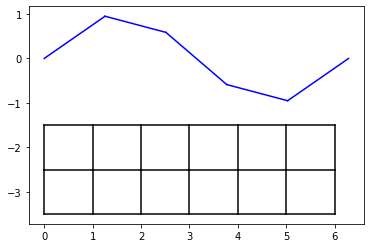
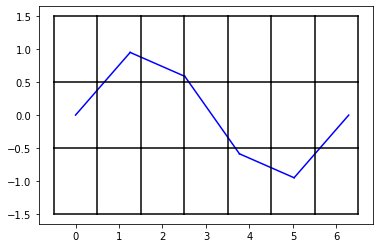
deploy: 42b4f965e19e7f2727c2987ec992e556f2c6b85d

diff --git a/searchindex.js b/searchindex.js
@@ -1,1 +1,1 @@
-Search.setIndex({docnames:["api/errors","api/factories","api/index","api/meshkernel","api/py_structures","examples/01_mesh2d_basics","examples/02_mesh1d_basics","examples/index","index"],envversion:{"sphinx.domains.c":2,"sphinx.domains.changeset":1,"sphinx.domains.citation":1,"sphinx.domains.cpp":3,"sphinx.domains.index":1,"sphinx.domains.javascript":2,"sphinx.domains.math":2,"sphinx.domains.python":2,"sphinx.domains.rst":2,"sphinx.domains.std":2,sphinx:56},filenames:["api/errors.rst","api/factories.rst","api/index.rst","api/meshkernel.rst","api/py_structures.rst","examples/01_mesh2d_basics.ipynb","examples/02_mesh1d_basics.ipynb","examples/index.rst","index.md"],objects:{},objnames:{},objtypes:{},terms:{"0d0":4,"1d0":4,"975":4,"998":4,"999":4,"boolean":3,"case":[3,5],"class":[0,1,3,4,5],"default":[1,4],"float":[1,3,4],"function":3,"import":[5,6],"int":[1,3,4,5],"new":[3,5],"public":2,"return":[1,3,4,5],"static":1,"true":[3,5],Axes:4,For:[3,5],That:5,The:[1,3,4,5,8],These:[0,1,2,4,7],With:5,absolut:4,access:5,account:[3,4],account_for_samples_outsid:4,account_for_samples_outside_fac:4,achiev:[3,8],adapt:8,add:5,after:5,again:5,against:3,algorithm:[3,8],all:[3,4,5],all_face_circumcent:4,all_nod:4,also:[5,8],alwai:5,amount:3,angl:3,ani:[3,5],annot:5,anoth:3,api:8,area:[3,4,8],areal_to_angle_smoothing_factor:4,arg:4,arrai:[3,4,5],ask:5,assert:5,atpf:4,attribut:5,averag:[3,4],averaging_method:3,averagingmethod:[3,4],axes:4,back:5,balanc:8,base:[3,8],basic:7,befor:8,begin:[5,6],below:[3,5],between:[1,3,4,5,8],black:[6,8],blue:[5,6],bool:[3,4],boundari:[3,4],boundary_iter:4,bundl:8,calcul:[1,3,5],can:[5,6,7,8],cartesian:5,cell:[3,4],center:[3,4,5],cento:8,chang:5,circum:4,circumcent:3,close:3,closest:[3,4],closest_point:4,code:8,collect:5,color:[5,6],column:1,come:0,common:5,complet:4,complex:4,compos:4,comput:[3,4],configur:[3,8],connect:[3,4,5],connect_hanging_nod:4,constructor:5,contact:[3,4],contacts_compute_boundari:3,contacts_compute_multipl:3,contacts_compute_singl:3,contacts_compute_with_point:3,contacts_compute_with_polygon:3,contacts_get:3,contain:3,conveni:5,coordin:[1,3,4,5],copi:3,corner:3,correspond:5,count:5,creat:[1,5,8],create_rectilinear_mesh:[1,5,6],criterion:4,current:8,data:[3,4,5],deal:[5,6],defin:3,delet:[3,4,5],delete_opt:3,deletemeshopt:[3,4],deltar:8,depend:8,describ:[1,3,4,5],desir:8,detect:3,determin:3,dimension:[3,4,5],discret:8,distanc:3,doc:8,document:5,doubl:[3,4,5],download:7,draw:5,dtype:4,each:[3,4,5],edg:[3,4,5,8],edge_i:[4,5],edge_index:6,edge_index_0:5,edge_index_1:5,edge_index_3:5,edge_nod:[4,5,6],edge_x:[4,5],edit:8,editor:8,effect:3,embed:7,enclos:3,end:4,end_nod:3,enough:5,entri:3,enumer:5,environ:8,equal:3,error:2,everyth:5,exampl:3,except:0,execut:[5,8],express:3,face:[3,4,5],face_i:[4,5],face_index:5,face_nod:4,face_x:[4,5],factor:4,factori:2,fals:[3,5],few:5,fig:[5,6],find:[3,5],finit:8,first:[3,5],first_nod:3,fit:8,flip:3,float64:4,flow:[3,8],focus:5,follow:8,fontsiz:5,format:8,formatt:8,found:[5,8],from:[0,3,4,5,6,7,8],fulli:5,futur:8,garbag:5,gener:3,geometri:[3,4],geometry_list:3,geometry_separ:4,geometrylist:[3,4],get:[3,4,5],get_splin:3,getter:5,given:[3,4],good:8,got:5,grid:4,hang:[3,4,5],hanging_edg:5,has:[3,5],have:[3,5,6],henc:3,here:[7,8],highli:3,hold:[4,5],hole:3,homogen:4,how:[3,4,6],howev:8,immedi:5,increas:4,index:[3,5],indic:[3,4,5],inner:[3,4],inner_iter:4,inner_outer_separ:4,input:[0,3],inputerror:[0,3],insert:3,insid:[3,4,8],instanc:[1,5],int32:[4,6],integ:[3,4],interact:[3,5,6],intern:3,interpol:[3,4],intersect:4,interv:3,introduct:5,invers:4,inverse_weight_dist:4,invert:3,invert_delet:3,involv:3,is_geograph:[3,5],isort:8,itatp:4,itbnd:4,iter:4,its:[4,5],jupyt:[7,8],jupyterlab:8,kind:5,kwarg:4,land:[3,4],land_boundari:3,larger:3,length:[3,8],let:5,lgpl:8,librari:[0,3,5,6,8],line:8,linspac:6,lint:8,list:[3,4],local:8,locat:[3,4],location_typ:3,look:5,machin:[7,8],make:[2,3,5,8],mandatori:5,manipul:5,manylinux:8,mass:[3,4],matplotlib:[4,5,6],max:4,max_refinement_iter:4,maximum:4,mean:[3,4],merg:3,merging_dist:3,mesh1d:[3,4,7],mesh1d_get:3,mesh1d_indic:4,mesh1d_input:6,mesh1d_set:[3,6],mesh2d:[1,3,4,7],mesh2d_averaging_interpol:3,mesh2d_compute_orthogon:3,mesh2d_delet:3,mesh2d_delete_edg:3,mesh2d_delete_hanging_edg:[3,5],mesh2d_delete_nod:[3,5],mesh2d_delete_small_flow_edges_and_small_triangl:3,mesh2d_flip_edg:3,mesh2d_get:[3,5],mesh2d_get_edg:3,mesh2d_get_hanging_edg:[3,5],mesh2d_get_mesh_boundaries_as_polygon:3,mesh2d_get_node_index:3,mesh2d_get_nodes_in_polygon:3,mesh2d_get_obtuse_triangles_mass_cent:3,mesh2d_get_orthogon:3,mesh2d_get_small_flow_edge_cent:3,mesh2d_get_smooth:3,mesh2d_indic:4,mesh2d_input:[5,6],mesh2d_insert_edg:[3,5],mesh2d_insert_nod:[3,5],mesh2d_make_mesh_from_polygon:3,mesh2d_make_mesh_from_sampl:3,mesh2d_merge_nod:3,mesh2d_merge_two_nod:3,mesh2d_move_nod:3,mesh2d_output_0:5,mesh2d_output_1:5,mesh2d_output_2:5,mesh2d_output_3:5,mesh2d_refine_based_on_polygon:3,mesh2d_refine_based_on_sampl:3,mesh2d_set:[3,5,6],mesh2d_triangulation_interpol:3,mesh2dfactori:[1,5,6],mesh2dloc:[3,4],mesh:[1,3,4,5,6,8],mesh_refinement_param:3,meshkernel:[0,1,2,4,5,6,8],meshkernelerror:0,meshkernelpi:0,meshrefinementparamet:[3,4],method:[3,4,5],middl:[3,4,5],might:0,min:4,min_face_s:4,min_fractional_area_triangl:3,min_sampl:3,minimum:[3,4],minimum_num_sampl:3,miss:3,mit:8,modifi:[3,8],more:3,most:5,move:3,much:8,multipl:3,myst:7,ndarrai:[3,4],necessari:[5,6],need:8,neighbor:3,net:4,network:3,node:[3,4,5],node_i:[4,5,6],node_index:[3,6],node_index_0:5,node_index_1:5,node_mask:3,node_x:[4,5,6],nodes_per_fac:4,non:3,none:3,note:3,notebook:[7,8],now:5,number:[1,3,4,5],number_of_points_between_nod:3,numpi:[3,4,5,6],object:[0,1,2],obtus:3,offer:8,often:5,onc:5,one:[3,4,5],onli:[3,5,8],oper:[3,5],optim:3,option:[1,3,4],order:[5,8],origin:[1,5],origin_i:[1,6],origin_x:1,orthogon:[3,4,8],orthogonalization_paramet:3,orthogonalization_to_smoothing_factor:4,orthogonalization_to_smoothing_factor_at_boundari:4,orthogonalizationparamet:[3,4],other:3,otherwis:5,our:5,outer:[3,4],outer_iter:4,output:[3,5],outsid:[3,4],own:[5,7],paramet:[1,2,3,5],part:4,per:3,perform:3,perimet:[3,8],pip:8,plai:7,plan:8,pleas:[3,8],plot:[4,5],plot_edg:[4,5,6],plot_fac:[4,5],plt:[5,6],point:[3,4,5],polygon:[3,4,8],polygon_get_included_point:3,polygon_refin:3,posit:[3,5],possibl:8,process:[3,4],produc:1,project:[3,4],project_to_land_boundary_opt:3,project_to_land_boundary_requir:3,projecttolandboundaryopt:[3,4],provid:[5,8],py_structur:[1,3,4],pypi:8,pyplot:[5,6],python:8,quadrilater:3,quit:5,radiu:3,rais:[0,3],rang:[5,6],ratio:3,rectilinear:1,refin:[3,4,8],refine_intersect:4,refinement_typ:4,refinementtyp:4,rel:3,relative_search_radiu:3,relative_search_s:3,releas:8,remain:5,remov:3,requir:[3,8],result:3,retriev:3,row:1,sampl:[3,4,8],sample_point:3,scale:5,search:[3,5],search_radiu:3,second:3,second_nod:3,see:5,seen:5,segment:3,select:[3,8],selected_polygon:3,selecting_polygon:3,separ:[3,4],seri:3,set:[3,4,5],setter:5,sever:3,shape:3,share:3,should:3,show:6,simpl:[1,5],simple_averag:4,sin:6,singl:3,six:[3,5],size:[3,4,5,6],small:3,small_flow_edges_length_threshold:3,smaller:3,smooth:[3,4,8],smoother:4,snap:3,solver:8,some:3,sourc:8,space:1,spacing_i:1,spacing_x:1,specif:8,specifi:3,spheric:5,spline:3,split:[3,4],stagger:8,start_nod:3,state:[3,5],strategi:3,structur:5,subplot:[5,6],success:3,support:8,sure:8,take:4,target:3,target_edge_length:3,test:8,text:5,than:3,thei:[5,6],them:[5,7],thi:[3,4,5,6,8],third:5,those:3,three:5,thrown:0,togeth:5,trade:3,triangl:3,triangul:3,triangular:[3,8],triangulation_requir:3,tutori:[5,6],two:[3,4,5],type:[1,3,4],typic:3,underli:8,uniform:3,unstructur:[5,8],until:5,unwant:5,use:[4,5],use_mass_center_when_refin:4,used:[1,3,4,5,8],uses:8,using:[3,5],valid:3,valu:[3,4],vari:3,variou:5,veri:[5,6],via:7,virtual:8,volum:8,want:7,weight:4,wheel:8,when:[3,4,8],where:[3,4],whether:[3,4,5],which:[2,3,4,5],white:5,why:5,wildli:3,within:[3,4],without:5,x_coordin:[3,4],y_coordin:[3,4],you:[5,7],your:[7,8],zero:6,zip:5},titles:["Errors","Factories","Python API","MeshKernel","Parameter Objects","Mesh2d Basics","Mesh1d basics","Examples","MeshKernelPy"],titleterms:{api:2,basic:[5,6],contribut:8,error:0,exampl:[7,8],factori:1,instal:8,licens:8,linux:8,mesh1d:6,mesh2d:5,meshkernel:3,meshkernelpi:8,object:4,paramet:4,python:2,window:8}})
+Search.setIndex({docnames:["api/errors","api/factories","api/index","api/meshkernel","api/py_structures","examples/01_mesh2d_basics","examples/02_mesh1d_basics","examples/index","index"],envversion:{"sphinx.domains.c":2,"sphinx.domains.changeset":1,"sphinx.domains.citation":1,"sphinx.domains.cpp":3,"sphinx.domains.index":1,"sphinx.domains.javascript":2,"sphinx.domains.math":2,"sphinx.domains.python":2,"sphinx.domains.rst":2,"sphinx.domains.std":2,sphinx:56},filenames:["api/errors.rst","api/factories.rst","api/index.rst","api/meshkernel.rst","api/py_structures.rst","examples/01_mesh2d_basics.ipynb","examples/02_mesh1d_basics.ipynb","examples/index.rst","index.md"],objects:{},objnames:{},objtypes:{},terms:{"0d0":4,"1d0":4,"975":4,"998":4,"999":4,"boolean":3,"case":[3,5],"class":[0,1,3,4,5],"default":[1,4],"float":[1,3,4],"function":3,"import":[5,6],"int":[1,3,4,5],"new":[3,5],"public":2,"return":[1,3,4,5],"static":1,"true":[3,5,6],Axes:4,For:[3,5],That:5,The:[1,3,4,5,8],These:[0,1,2,4,7],With:5,absolut:4,access:5,account:[3,4],account_for_samples_outsid:4,account_for_samples_outside_fac:4,achiev:[3,8],adapt:8,add:5,after:5,again:5,against:3,algorithm:[3,8],all:[3,4,5],all_face_circumcent:4,all_nod:4,also:[5,8],alwai:5,amount:3,angl:3,ani:[3,5],annot:5,anoth:3,api:8,area:[3,4,8],areal_to_angle_smoothing_factor:4,arg:4,arrai:[3,4,5],ask:5,assert:5,atpf:4,attribut:5,averag:[3,4],averaging_method:3,averagingmethod:[3,4],axes:4,back:5,balanc:8,base:[3,8],basic:7,befor:8,begin:[5,6],below:[3,5],between:[1,3,4,5,8],black:[6,8],blue:[5,6],bool:[3,4],boundari:[3,4],boundary_iter:4,bundl:8,calcul:[1,3,5],can:[5,6,7,8],cartesian:5,cell:[3,4],center:[3,4,5],cento:8,chang:5,circum:4,circumcent:3,close:3,closest:[3,4],closest_point:4,code:8,collect:5,color:[5,6],column:1,come:0,common:5,complet:4,complex:4,compos:4,comput:[3,4],configur:[3,8],connect:[3,4,5],connect_hanging_nod:4,constructor:5,contact:[3,4],contacts_compute_boundari:3,contacts_compute_multipl:[3,6],contacts_compute_singl:3,contacts_compute_with_point:3,contacts_compute_with_polygon:3,contacts_get:[3,6],contacts_output_0:6,contain:3,conveni:5,coordin:[1,3,4,5],copi:3,corner:3,correspond:5,count:5,creat:[1,5,8],create_rectilinear_mesh:[1,5,6],criterion:4,current:8,data:[3,4,5],deal:[5,6],defin:3,delet:[3,4,5],delete_opt:3,deletemeshopt:[3,4],deltar:8,depend:8,describ:[1,3,4,5],descript:4,desir:8,detect:3,determin:3,dimension:[3,4,5],discret:8,distanc:3,doc:8,document:5,doubl:[3,4,5],download:7,draw:5,dtype:4,each:[3,4,5],edg:[3,4,5,8],edge_i:[4,5],edge_index:6,edge_index_0:5,edge_index_1:5,edge_index_3:5,edge_nod:[4,5,6],edge_x:[4,5],edit:8,editor:8,effect:3,embed:7,enclos:3,end:4,end_nod:3,enough:5,entri:3,enumer:5,environ:8,equal:3,error:2,everyth:5,exampl:3,except:0,execut:[5,8],express:3,face:[3,4,5],face_i:[4,5],face_index:5,face_nod:4,face_x:[4,5],factor:4,factori:2,fals:[3,5],few:5,fig:[5,6],find:[3,5],finit:8,first:[3,5],first_nod:3,fit:8,flip:3,float64:4,flow:[3,8],focus:5,follow:8,fontsiz:5,format:8,formatt:8,found:[5,8],from:[0,3,4,5,6,7,8],full:6,fulli:5,futur:8,garbag:5,gener:3,geometri:[3,4],geometry_list:3,geometry_separ:4,geometrylist:[3,4],get:[3,4,5],get_splin:3,getter:5,given:[3,4],good:8,got:5,grid:4,hang:[3,4,5],hanging_edg:5,has:[3,5],have:[3,5,6],henc:3,here:[7,8],highli:3,hold:[4,5],hole:3,homogen:4,how:[3,4,6],howev:8,immedi:5,increas:4,index:[3,5],indic:[3,4,5],inner:[3,4],inner_iter:4,inner_outer_separ:4,input:[0,3],inputerror:[0,3],insert:3,insid:[3,4,8],instanc:[1,5],int32:[4,6],integ:[3,4],interact:[3,5,6],intern:3,interpol:[3,4],intersect:4,interv:3,introduct:5,invers:4,inverse_weight_dist:4,invert:3,invert_delet:3,involv:3,is_geograph:[3,5],isort:8,itatp:4,itbnd:4,iter:4,its:[4,5],jupyt:[7,8],jupyterlab:8,kind:5,kwarg:4,land:[3,4],land_boundari:3,larger:3,length:[3,8],let:5,lgpl:8,librari:[0,3,5,6,8],line:8,linspac:6,lint:8,list:[3,4],local:8,locat:[3,4],location_typ:3,look:5,machin:[7,8],make:[2,3,5,8],mandatori:5,manipul:5,manylinux:8,mass:[3,4],matplotlib:[4,5,6],max:4,max_refinement_iter:4,maximum:4,mean:[3,4],merg:3,merging_dist:3,mesh1d:[3,4,7],mesh1d_get:[3,6],mesh1d_indic:4,mesh1d_input:6,mesh1d_output_0:6,mesh1d_set:[3,6],mesh2d:[1,3,4,7],mesh2d_averaging_interpol:3,mesh2d_compute_orthogon:3,mesh2d_delet:3,mesh2d_delete_edg:3,mesh2d_delete_hanging_edg:[3,5],mesh2d_delete_nod:[3,5],mesh2d_delete_small_flow_edges_and_small_triangl:3,mesh2d_flip_edg:3,mesh2d_get:[3,5,6],mesh2d_get_edg:3,mesh2d_get_hanging_edg:[3,5],mesh2d_get_mesh_boundaries_as_polygon:3,mesh2d_get_node_index:3,mesh2d_get_nodes_in_polygon:3,mesh2d_get_obtuse_triangles_mass_cent:3,mesh2d_get_orthogon:3,mesh2d_get_small_flow_edge_cent:3,mesh2d_get_smooth:3,mesh2d_indic:4,mesh2d_input:[5,6],mesh2d_insert_edg:[3,5],mesh2d_insert_nod:[3,5],mesh2d_make_mesh_from_polygon:3,mesh2d_make_mesh_from_sampl:3,mesh2d_merge_nod:3,mesh2d_merge_two_nod:3,mesh2d_move_nod:3,mesh2d_output_0:[5,6],mesh2d_output_1:5,mesh2d_output_2:5,mesh2d_output_3:5,mesh2d_refine_based_on_polygon:3,mesh2d_refine_based_on_sampl:3,mesh2d_set:[3,5,6],mesh2d_triangulation_interpol:3,mesh2dfactori:[1,5,6],mesh2dloc:[3,4],mesh:[1,3,4,5,6,8],mesh_refinement_param:3,meshkernel:[0,1,2,4,5,6,8],meshkernelerror:0,meshkernelpi:0,meshrefinementparamet:[3,4],method:[3,4,5],middl:[3,4,5],might:0,min:4,min_face_s:4,min_fractional_area_triangl:3,min_sampl:3,minimum:[3,4],minimum_num_sampl:3,miss:3,mit:8,modifi:[3,8],more:3,most:5,move:3,much:8,multipl:3,myst:7,ndarrai:[3,4],necessari:[5,6],need:8,neighbor:3,net:4,network:3,node:[3,4,5],node_i:[4,5,6],node_index:[3,6],node_index_0:5,node_index_1:5,node_mask:[3,6],node_x:[4,5,6],nodes_per_fac:4,non:3,none:3,note:3,notebook:[7,8],now:5,number:[1,3,4,5],number_of_points_between_nod:3,numpi:[3,4,5,6],object:[0,1,2],obtus:3,offer:8,often:5,onc:5,one:[3,4,5],onli:[3,5,8],oper:[3,5],optim:3,option:[1,3,4],order:[5,8],origin:[1,5],origin_i:[1,6],origin_x:[1,6],orthogon:[3,4,8],orthogonalization_paramet:3,orthogonalization_to_smoothing_factor:4,orthogonalization_to_smoothing_factor_at_boundari:4,orthogonalizationparamet:[3,4],other:3,otherwis:5,our:5,outer:[3,4],outer_iter:4,output:[3,5],outsid:[3,4],own:[5,7],paramet:[1,2,3,5],part:4,per:3,perform:3,perimet:[3,8],pip:8,plai:7,plan:8,pleas:[3,8],plot:[4,5],plot_edg:[4,5,6],plot_fac:[4,5],plt:[5,6],point:[3,4,5],polygon:[3,4,8],polygon_get_included_point:3,polygon_refin:3,posit:[3,5],possibl:8,process:[3,4],produc:1,project:[3,4],project_to_land_boundary_opt:3,project_to_land_boundary_requir:3,projecttolandboundaryopt:[3,4],provid:[5,8],py_structur:[1,3,4],pypi:8,pyplot:[5,6],python:8,quadrilater:3,quit:5,radiu:3,rais:[0,3],rang:[5,6],ratio:3,rectilinear:1,red:6,refin:[3,4,8],refine_intersect:4,refinement_typ:4,refinementtyp:4,rel:3,relative_search_radiu:3,relative_search_s:3,releas:8,remain:5,remov:3,requir:[3,8],result:3,retriev:3,row:1,sampl:[3,4,8],sample_point:3,scale:5,search:[3,5],search_radiu:3,second:3,second_nod:3,see:5,seen:5,segment:3,select:[3,8],selected_polygon:3,selecting_polygon:3,separ:[3,4],seri:3,set:[3,4,5],setter:5,sever:3,shape:3,share:3,should:3,show:6,simpl:[1,5],simple_averag:4,sin:6,singl:3,six:[3,5],size:[3,4,5,6],small:3,small_flow_edges_length_threshold:3,smaller:3,smooth:[3,4,8],smoother:4,snap:3,solver:8,some:3,sourc:8,space:1,spacing_i:1,spacing_x:1,specif:8,specifi:3,spheric:5,spline:3,split:[3,4],stagger:8,start_nod:3,state:[3,5],strategi:3,structur:5,subplot:[5,6],success:3,support:8,sure:8,take:4,target:3,target_edge_length:3,test:8,text:5,than:3,thei:[5,6],them:[5,7],thi:[3,4,5,6,8],third:5,those:3,three:5,thrown:0,togeth:5,trade:3,triangl:3,triangul:3,triangular:[3,8],triangulation_requir:3,tutori:[5,6],two:[3,4,5],type:[1,3,4],typic:3,underli:8,uniform:3,unstructur:[5,8],until:5,unwant:5,use:[4,5],use_mass_center_when_refin:4,used:[1,3,4,5,8],uses:8,using:[3,5],valid:3,valu:[3,4],vari:3,variou:5,veri:[5,6],via:7,virtual:8,volum:8,want:7,weight:4,wheel:8,when:[3,4,8],where:[3,4],whether:[3,4,5],which:[2,3,4,5],white:5,why:5,wildli:3,within:[3,4],without:5,x_coordin:[3,4],y_coordin:[3,4],you:[5,7],your:[7,8],zero:6,zip:5},titles:["Errors","Factories","Python API","MeshKernel","Parameter Objects","Mesh2d Basics","Mesh1d basics","Examples","MeshKernelPy"],titleterms:{api:2,basic:[5,6],contribut:8,error:0,exampl:[7,8],factori:1,instal:8,licens:8,linux:8,mesh1d:6,mesh2d:5,meshkernel:3,meshkernelpi:8,object:4,paramet:4,python:2,window:8}})

diff --git a/examples/02_mesh1d_basics.html b/examples/02_mesh1d_basics.html
@@ -246,7 +246,7 @@
 </div>
 <div class="cell docutils container">
 <div class="cell_input docutils container">
-<div class="highlight-ipython3 notranslate"><div class="highlight"><pre><span></span><span class="n">mesh2d_input</span> <span class="o">=</span> <span class="n">Mesh2dFactory</span><span class="o">.</span><span class="n">create_rectilinear_mesh</span><span class="p">(</span><span class="mi">2</span><span class="p">,</span> <span class="mi">6</span><span class="p">,</span> <span class="n">origin_y</span><span class="o">=-</span><span class="mf">3.5</span><span class="p">)</span>
+<div class="highlight-ipython3 notranslate"><div class="highlight"><pre><span></span><span class="n">mesh2d_input</span> <span class="o">=</span> <span class="n">Mesh2dFactory</span><span class="o">.</span><span class="n">create_rectilinear_mesh</span><span class="p">(</span><span class="mi">3</span><span class="p">,</span> <span class="mi">7</span><span class="p">,</span> <span class="n">origin_x</span><span class="o">=-</span><span class="mf">0.5</span><span class="p">,</span> <span class="n">origin_y</span><span class="o">=-</span><span class="mf">1.5</span><span class="p">)</span>
 </pre></div>
 </div>
 </div>
@@ -263,13 +263,49 @@
 <div class="cell docutils container">
 <div class="cell_input docutils container">
 <div class="highlight-ipython3 notranslate"><div class="highlight"><pre><span></span><span class="n">fig</span><span class="p">,</span> <span class="n">ax</span> <span class="o">=</span> <span class="n">plt</span><span class="o">.</span><span class="n">subplots</span><span class="p">()</span>
-<span class="n">mesh2d_input</span><span class="o">.</span><span class="n">plot_edges</span><span class="p">(</span><span class="n">ax</span><span class="p">,</span> <span class="n">color</span><span class="o">=</span><span class="s2">&quot;black&quot;</span><span class="p">)</span>
 <span class="n">mesh1d_input</span><span class="o">.</span><span class="n">plot_edges</span><span class="p">(</span><span class="n">ax</span><span class="p">,</span> <span class="n">color</span><span class="o">=</span><span class="s2">&quot;blue&quot;</span><span class="p">)</span>
+<span class="n">mesh2d_input</span><span class="o">.</span><span class="n">plot_edges</span><span class="p">(</span><span class="n">ax</span><span class="p">,</span> <span class="n">color</span><span class="o">=</span><span class="s2">&quot;black&quot;</span><span class="p">)</span>
 </pre></div>
 </div>
 </div>
 <div class="cell_output docutils container">
 <img alt="../_images/02_mesh1d_basics_9_0.png" src="../_images/02_mesh1d_basics_9_0.png" />
+</div>
+</div>
+<div class="cell docutils container">
+<div class="cell_input docutils container">
+<div class="highlight-ipython3 notranslate"><div class="highlight"><pre><span></span><span class="n">node_mask</span> <span class="o">=</span> <span class="n">np</span><span class="o">.</span><span class="n">full</span><span class="p">(</span><span class="n">mesh1d_input</span><span class="o">.</span><span class="n">node_x</span><span class="o">.</span><span class="n">size</span><span class="p">,</span> <span class="kc">True</span><span class="p">)</span>
+</pre></div>
+</div>
+</div>
+</div>
+<div class="cell docutils container">
+<div class="cell_input docutils container">
+<div class="highlight-ipython3 notranslate"><div class="highlight"><pre><span></span><span class="n">mk</span><span class="o">.</span><span class="n">contacts_compute_multiple</span><span class="p">(</span><span class="n">node_mask</span><span class="p">)</span>
+</pre></div>
+</div>
+</div>
+</div>
+<div class="cell docutils container">
+<div class="cell_input docutils container">
+<div class="highlight-ipython3 notranslate"><div class="highlight"><pre><span></span><span class="n">mesh1d_output_0</span> <span class="o">=</span> <span class="n">mk</span><span class="o">.</span><span class="n">mesh1d_get</span><span class="p">()</span>
+<span class="n">mesh2d_output_0</span> <span class="o">=</span> <span class="n">mk</span><span class="o">.</span><span class="n">mesh2d_get</span><span class="p">()</span>
+<span class="n">contacts_output_0</span> <span class="o">=</span> <span class="n">mk</span><span class="o">.</span><span class="n">contacts_get</span><span class="p">()</span>
+</pre></div>
+</div>
+</div>
+</div>
+<div class="cell docutils container">
+<div class="cell_input docutils container">
+<div class="highlight-ipython3 notranslate"><div class="highlight"><pre><span></span><span class="n">fig</span><span class="p">,</span> <span class="n">ax</span> <span class="o">=</span> <span class="n">plt</span><span class="o">.</span><span class="n">subplots</span><span class="p">()</span>
+<span class="n">mesh1d_output_0</span><span class="o">.</span><span class="n">plot_edges</span><span class="p">(</span><span class="n">ax</span><span class="p">,</span> <span class="n">color</span><span class="o">=</span><span class="s2">&quot;blue&quot;</span><span class="p">)</span>
+<span class="n">mesh2d_output_0</span><span class="o">.</span><span class="n">plot_edges</span><span class="p">(</span><span class="n">ax</span><span class="p">,</span> <span class="n">color</span><span class="o">=</span><span class="s2">&quot;black&quot;</span><span class="p">)</span>
+<span class="n">contacts_output_0</span><span class="o">.</span><span class="n">plot_edges</span><span class="p">(</span><span class="n">ax</span><span class="p">,</span> <span class="n">mesh1d_output_0</span><span class="p">,</span> <span class="n">mesh2d_output_0</span><span class="p">,</span> <span class="n">color</span><span class="o">=</span><span class="s2">&quot;red&quot;</span><span class="p">)</span>
+</pre></div>
+</div>
+</div>
+<div class="cell_output docutils container">
+<img alt="../_images/02_mesh1d_basics_13_0.png" src="../_images/02_mesh1d_basics_13_0.png" />
 </div>
 </div>
 </div>

diff --git a/api/py_structures.html b/api/py_structures.html
@@ -261,6 +261,22 @@
 </dl>
 </dd></dl>
 
+<dl class="py method">
+<dt>
+<code class="sig-name descname"><span class="pre">plot_edges</span></code><span class="sig-paren">(</span><em class="sig-param"><span class="n"><span class="pre">ax</span></span></em>, <em class="sig-param"><span class="n"><span class="pre">mesh1d</span></span></em>, <em class="sig-param"><span class="n"><span class="pre">mesh2d</span></span></em>, <em class="sig-param"><span class="o"><span class="pre">*</span></span><span class="n"><span class="pre">args</span></span></em>, <em class="sig-param"><span class="o"><span class="pre">**</span></span><span class="n"><span class="pre">kwargs</span></span></em><span class="sig-paren">)</span></dt>
+<dd><p>Plots the edges at a given axes.
+<cite>args</cite> and <cite>kwargs</cite> will be used as parameters of the <cite>plot</cite> method of matplotlib.</p>
+<dl class="field-list simple">
+<dt class="field-odd">Parameters</dt>
+<dd class="field-odd"><ul class="simple">
+<li><p><strong>ax</strong> (<em>matplotlib.axes.Axes</em>) – The axes where to plot the edges</p></li>
+<li><p><strong>mesh1d</strong> (<em>Mesh1d</em>) – [description]</p></li>
+<li><p><strong>mesh2d</strong> (<em>Mesh2d</em>) – [description]</p></li>
+</ul>
+</dd>
+</dl>
+</dd></dl>
+
 </dd></dl>
 
 <dl class="py class">
@@ -384,7 +400,7 @@ part. Default is <cite>-998.0</cite>.</p>
 <dt>
 <code class="sig-name descname"><span class="pre">plot_edges</span></code><span class="sig-paren">(</span><em class="sig-param"><span class="n"><span class="pre">ax</span></span></em>, <em class="sig-param"><span class="o"><span class="pre">*</span></span><span class="n"><span class="pre">args</span></span></em>, <em class="sig-param"><span class="o"><span class="pre">**</span></span><span class="n"><span class="pre">kwargs</span></span></em><span class="sig-paren">)</span></dt>
 <dd><p>Plots the edges at a given axes.
-<cite>args</cite> and <cite>kwargs</cite> will be used as parameters of the <cite>plot</cite> method.</p>
+<cite>args</cite> and <cite>kwargs</cite> will be used as parameters of the <cite>plot</cite> method of matplotlib.</p>
 <dl class="field-list simple">
 <dt class="field-odd">Parameters</dt>
 <dd class="field-odd"><p><strong>ax</strong> (<em>matplotlib.axes.Axes</em>) – The axes where to plot the edges</p>
@@ -501,7 +517,7 @@ part. Default is <cite>-998.0</cite>.</p>
 <dt>
 <code class="sig-name descname"><span class="pre">plot_edges</span></code><span class="sig-paren">(</span><em class="sig-param"><span class="n"><span class="pre">ax</span></span></em>, <em class="sig-param"><span class="o"><span class="pre">*</span></span><span class="n"><span class="pre">args</span></span></em>, <em class="sig-param"><span class="o"><span class="pre">**</span></span><span class="n"><span class="pre">kwargs</span></span></em><span class="sig-paren">)</span></dt>
 <dd><p>Plots the edges at a given axes.
-<cite>args</cite> and <cite>kwargs</cite> will be used as parameters of the <cite>plot</cite> method.</p>
+<cite>args</cite> and <cite>kwargs</cite> will be used as parameters of the <cite>plot</cite> method of matplotlib.</p>
 <dl class="field-list simple">
 <dt class="field-odd">Parameters</dt>
 <dd class="field-odd"><p><strong>ax</strong> (<em>matplotlib.axes.Axes</em>) – The axes where to plot the edges</p>
@@ -513,7 +529,7 @@ part. Default is <cite>-998.0</cite>.</p>
 <dt>
 <code class="sig-name descname"><span class="pre">plot_faces</span></code><span class="sig-paren">(</span><em class="sig-param"><span class="n"><span class="pre">ax</span></span></em>, <em class="sig-param"><span class="o"><span class="pre">*</span></span><span class="n"><span class="pre">args</span></span></em>, <em class="sig-param"><span class="o"><span class="pre">**</span></span><span class="n"><span class="pre">kwargs</span></span></em><span class="sig-paren">)</span></dt>
 <dd><p>Plots the faces at a given axes.
-<cite>args</cite> and <cite>kwargs</cite> will be used as parameters of the <cite>plot</cite> method.</p>
+<cite>args</cite> and <cite>kwargs</cite> will be used as parameters of the <cite>plot</cite> method of matplotlib.</p>
 <dl class="field-list simple">
 <dt class="field-odd">Parameters</dt>
 <dd class="field-odd"><p><strong>ax</strong> (<em>matplotlib.axes.Axes</em>) – The axes where to plot the faces</p>

diff --git a/api/meshkernel.html b/api/meshkernel.html
@@ -462,7 +462,7 @@ shape and wildly varying areas.</p>
 <dt class="field-odd">Parameters</dt>
 <dd class="field-odd"><ul class="simple">
 <li><p><strong>triangulation_required</strong> (<em>bool</em>) – Whether to triangulate non-triangular cells.</p></li>
-<li><p><strong>project_to_land_boundary_required</strong> – Whether projection to land boundaries is required.</p></li>
+<li><p><strong>project_to_land_boundary_required</strong> (<em>bool</em>) – Whether projection to land boundaries is required.</p></li>
 <li><p><strong>selecting_polygon</strong> (<em>GeometryList</em>) – The polygon where to perform the edge flipping.</p></li>
 <li><p><strong>land_boundaries</strong> (<em>GeometryList</em>) – The land boundaries to account for when flipping the edges.</p></li>
 </ul>
